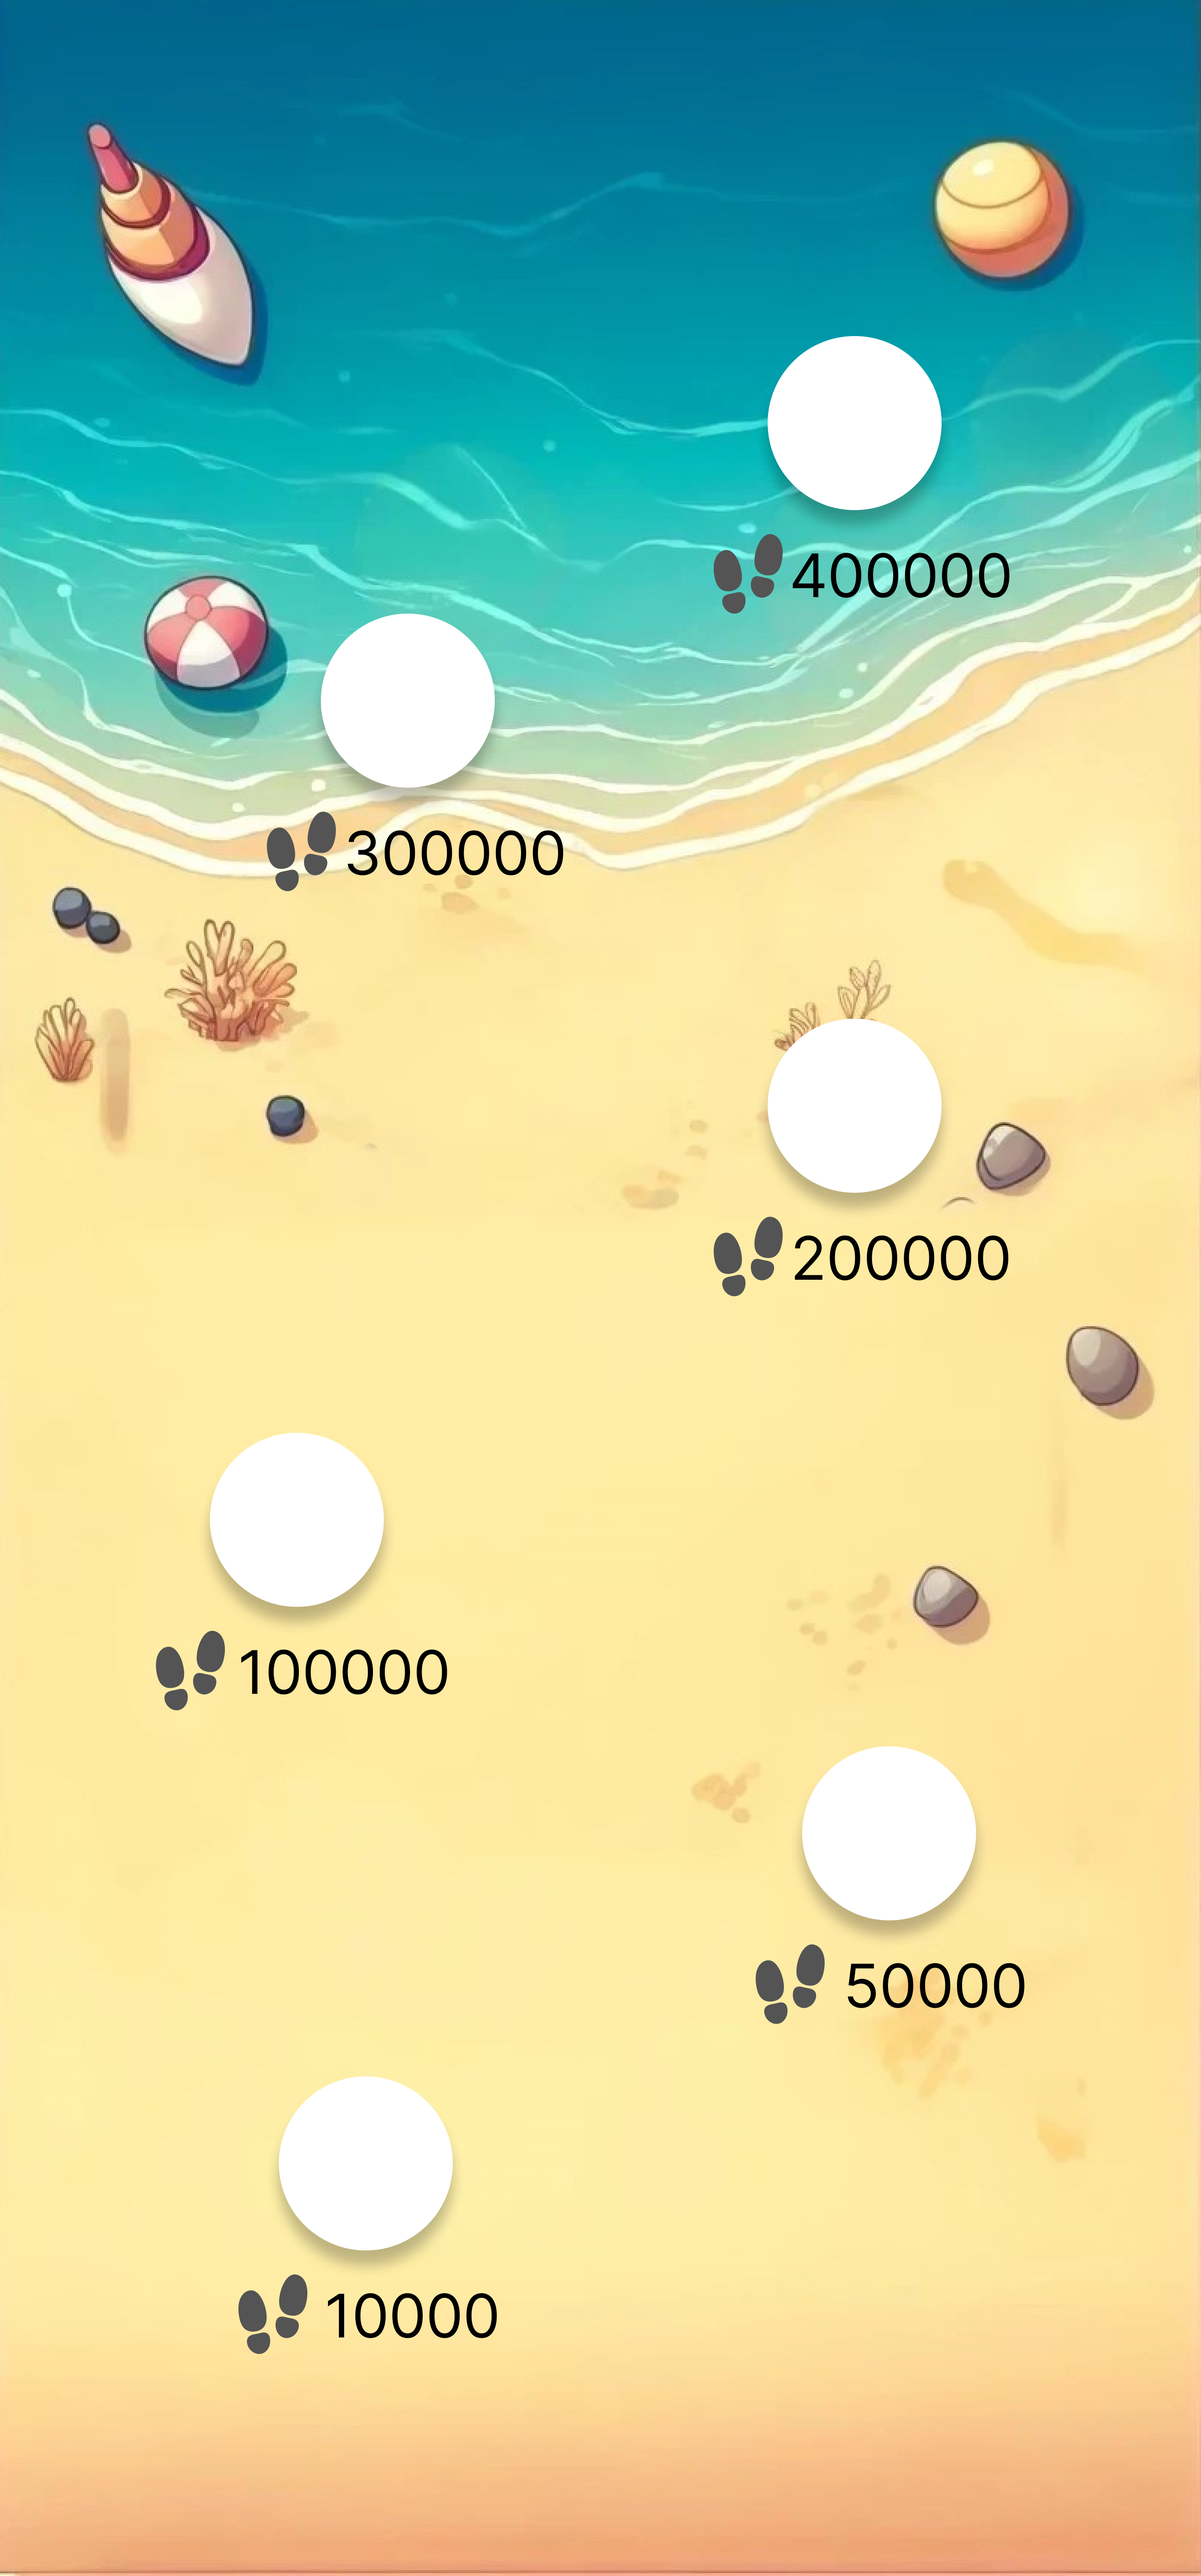
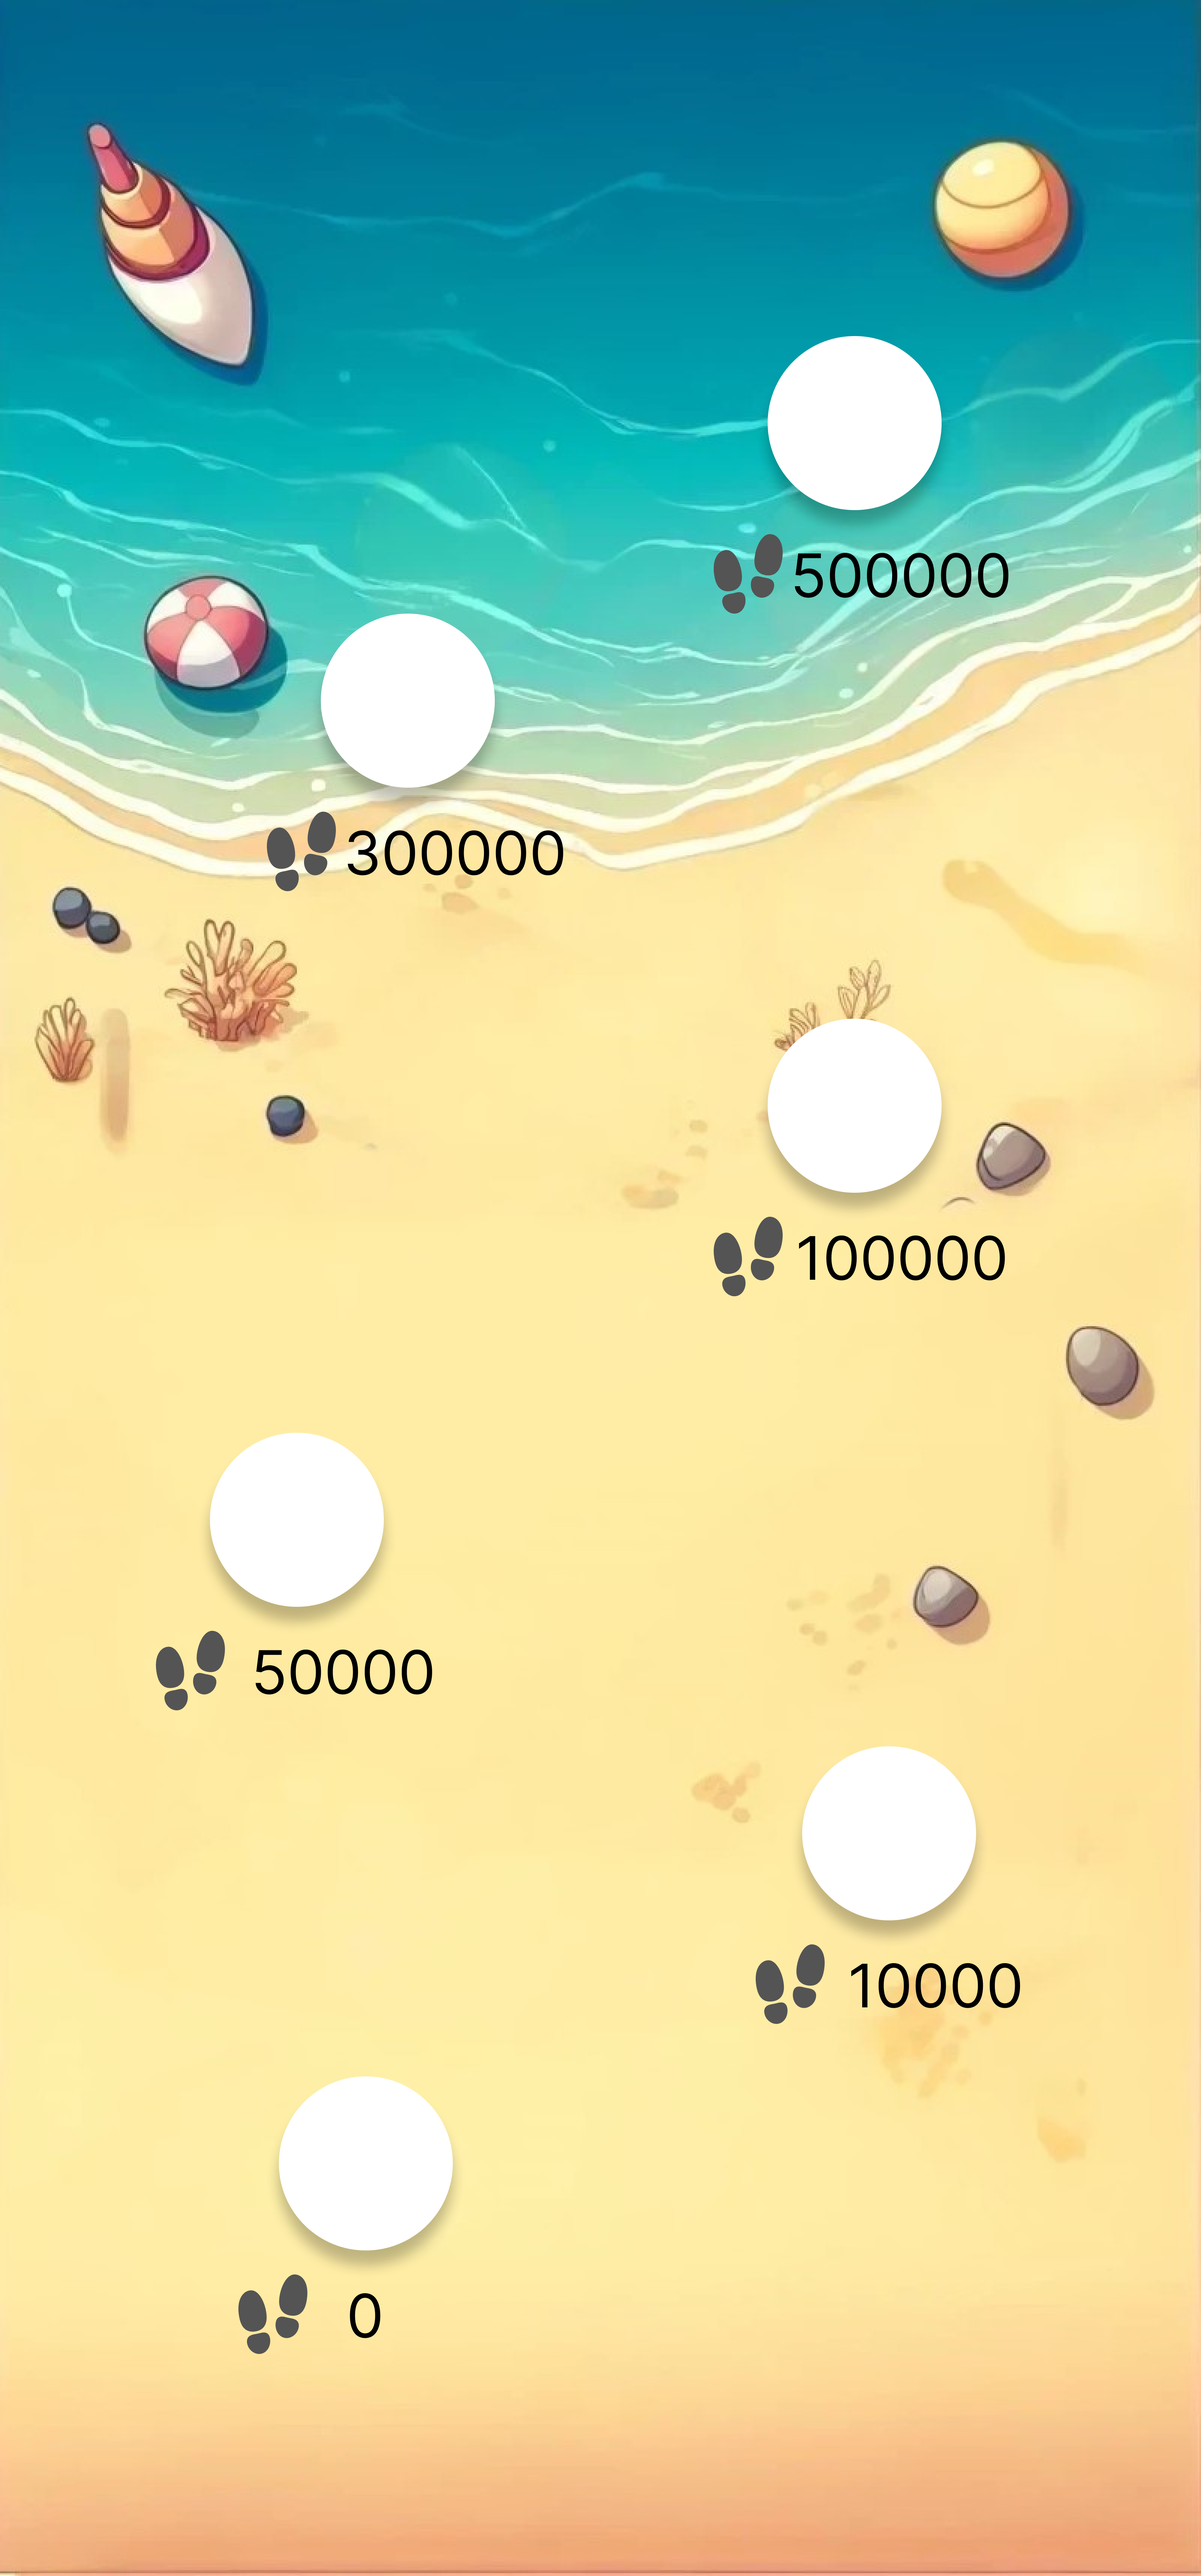
fix: 보물찾기 깨지는 버그 수정

diff --git a/frontend/src/assets/treasurePage/Treasure.jsx b/frontend/src/assets/treasurePage/Treasure.jsx
@@ -24,7 +24,7 @@ const Treasure = function(){
           })
           setTotalSteps(totalSteps);
           let pos = 0;
-          const arr = [10000,50000,100000,200000,300000,400000]
+          const arr = [0, 10000,50000,100000,300000,500000]
           for(let i=0; i<arr.length; i++){
             if(totalSteps<arr[i]){
               if(i==0){
